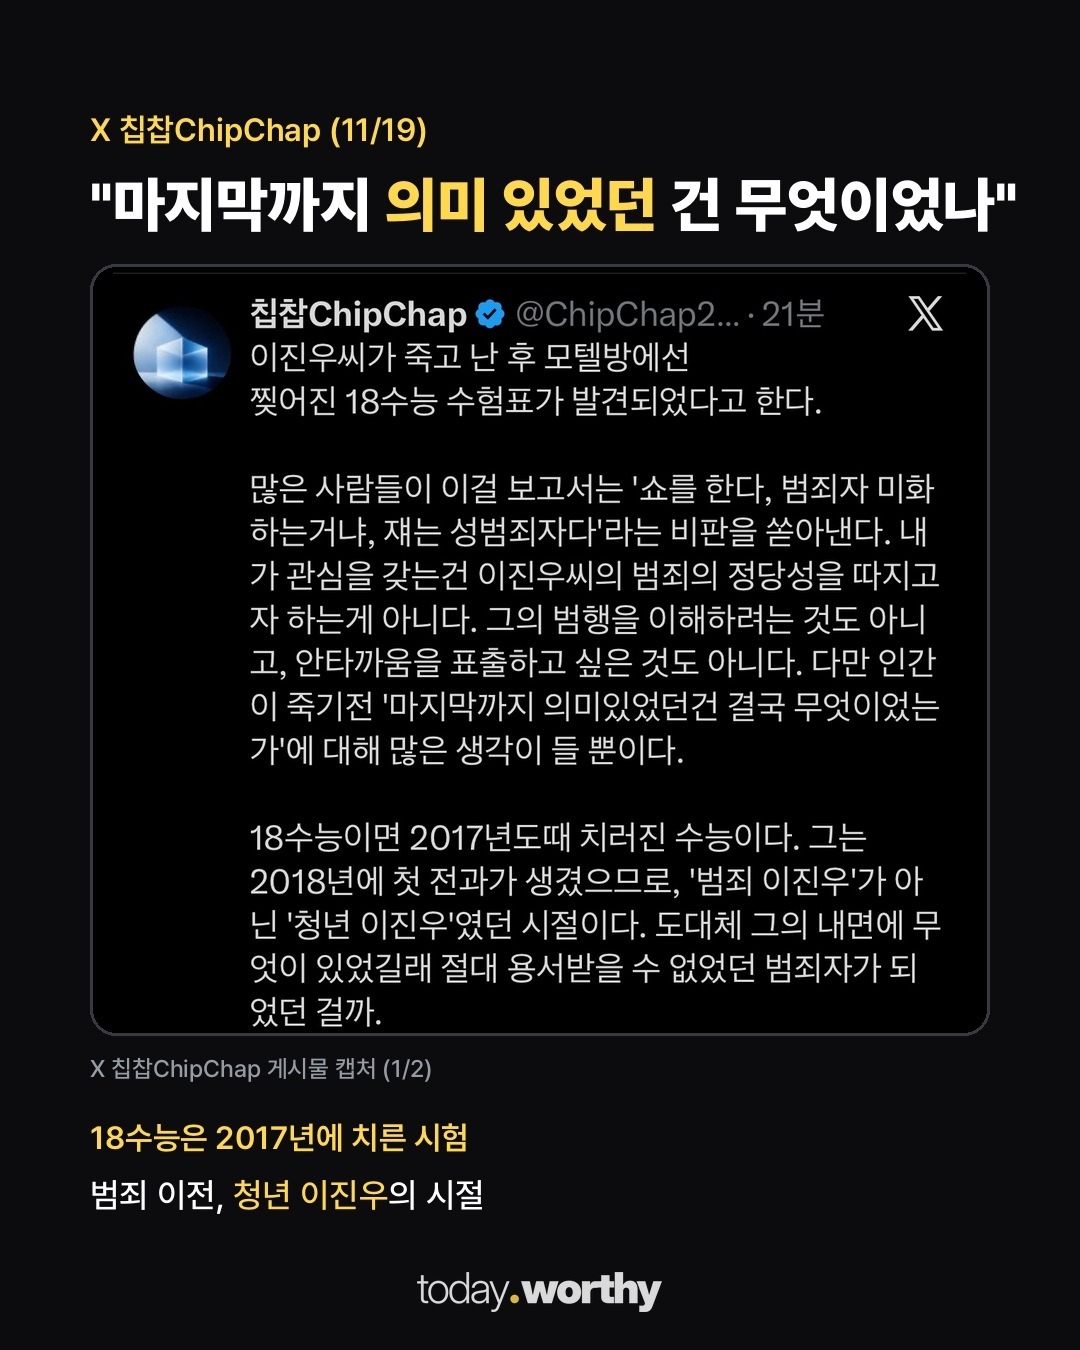
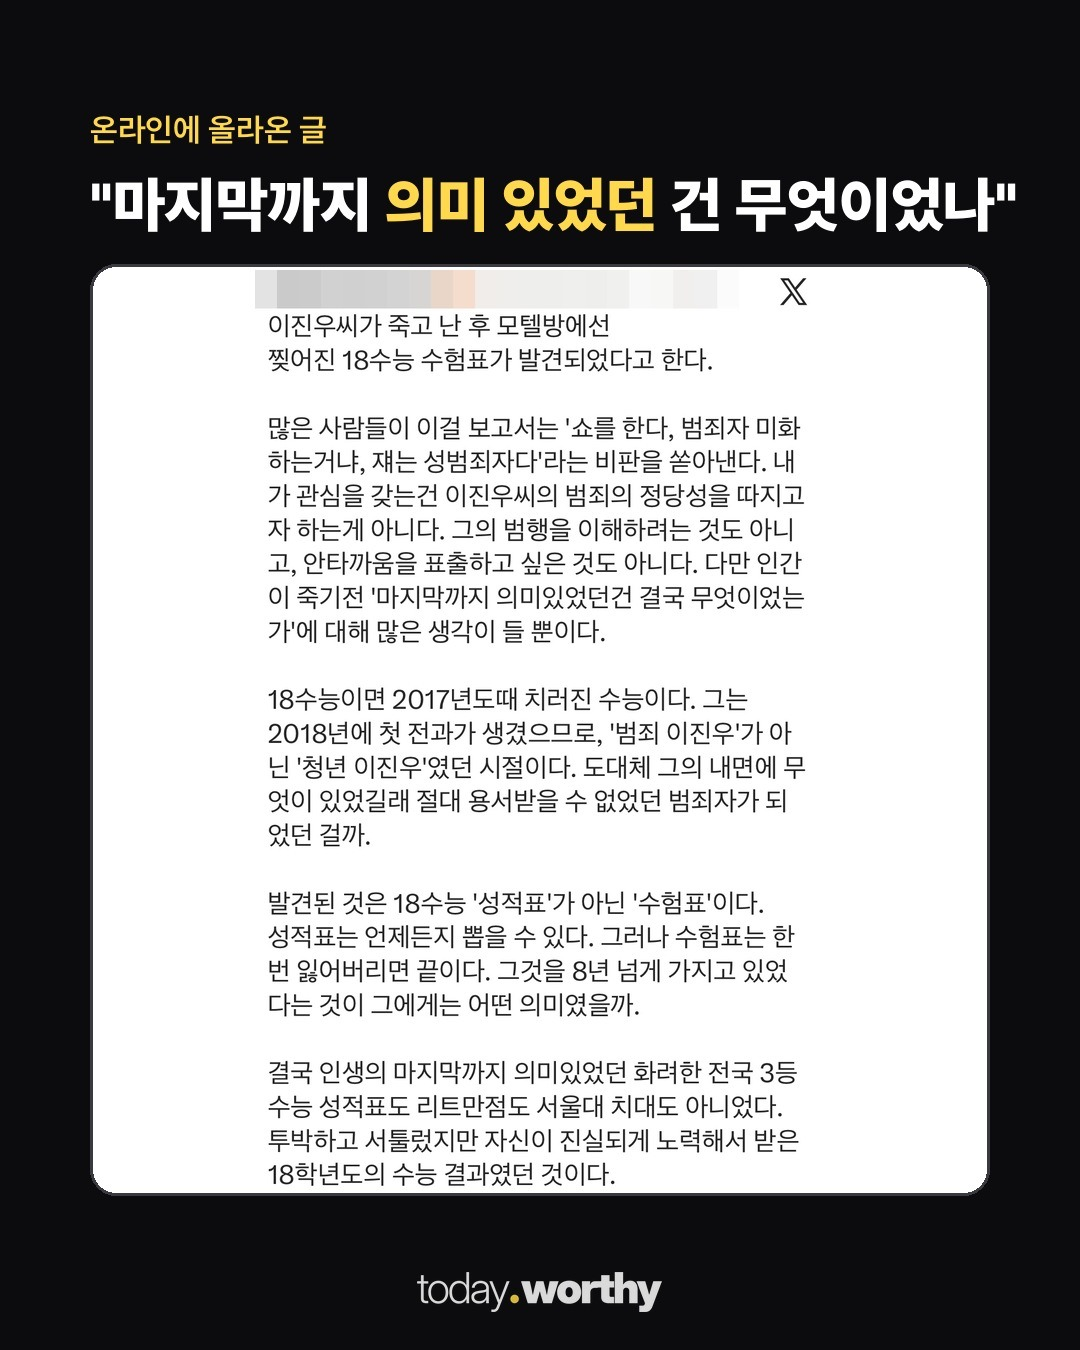
card: leetticket 트윗 한 장·흰 바탕·아이디 모자이크·카드 출처 제거(게시 안 함)

diff --git a/media/20261119-leetticket/build_cards.py b/media/20261119-leetticket/build_cards.py
@@ -58,14 +58,10 @@ def panel(rows, h=640, gap=None):
     for i, (k, v) in enumerate(rows):
         y = 40 + i * gap; d.text((56, y), k, font=F("Medium", 32), fill=(190, 190, 198)); rich(d, 56, y + 42, v, F("Black", 42))
     return p
-# 마지막 2장: X 칩찹ChipChap 트윗 원본 캡처(사용자 제공 스크린샷에서 본문만 잘라냄)
+# 마지막 장: X 트윗 본문 캡처 한 장(이름·아이디 모자이크, 흰 바탕으로 반전, 카드에 출처 표기 없음 — 캡션 출처에만)
 spec = [
- {"out": str(O / "c09.jpg"), "sub": "X 칩찹ChipChap (11/19)", "title": "\"마지막까지 '의미 있었던' 건 무엇이었나\"",
-  "cap": str(O / "tw1.jpg"), "cap_max_h": 760, "box_bg": [0, 0, 0], "caption": "X 칩찹ChipChap 게시물 캡처 (1/2)",
-  "label": "18수능은 2017년에 치른 시험", "lines": ["범죄 이전, '청년 이진우'의 시절"]},
- {"out": str(O / "c10.jpg"), "sub": "X 칩찹ChipChap (이어서)", "title": "\"성적표가 아닌 '수험표'\"",
-  "cap": str(O / "tw2.jpg"), "cap_max_h": 700, "box_bg": [0, 0, 0], "caption": "X 칩찹ChipChap 게시물 캡처 (2/2)",
-  "label": "성적표는 다시 뽑을 수 있지만", "lines": ["수험표는 '한 번 잃어버리면 끝'"]},
+ {"out": str(O / "c09.jpg"), "sub": "온라인에 올라온 글", "title": "\"마지막까지 '의미 있었던' 건 무엇이었나\"",
+  "cap": str(O / "tw_all.jpg"), "cap_max_h": 920, "box_bg": [255, 255, 255], "caption": ""},
 ]
 (O / "spec_tw.json").write_text(json.dumps(spec, ensure_ascii=False))
 subprocess.run([sys.executable, str(R / "scripts/post_cap_card.py"), str(O / "spec_tw.json")], check=True)
